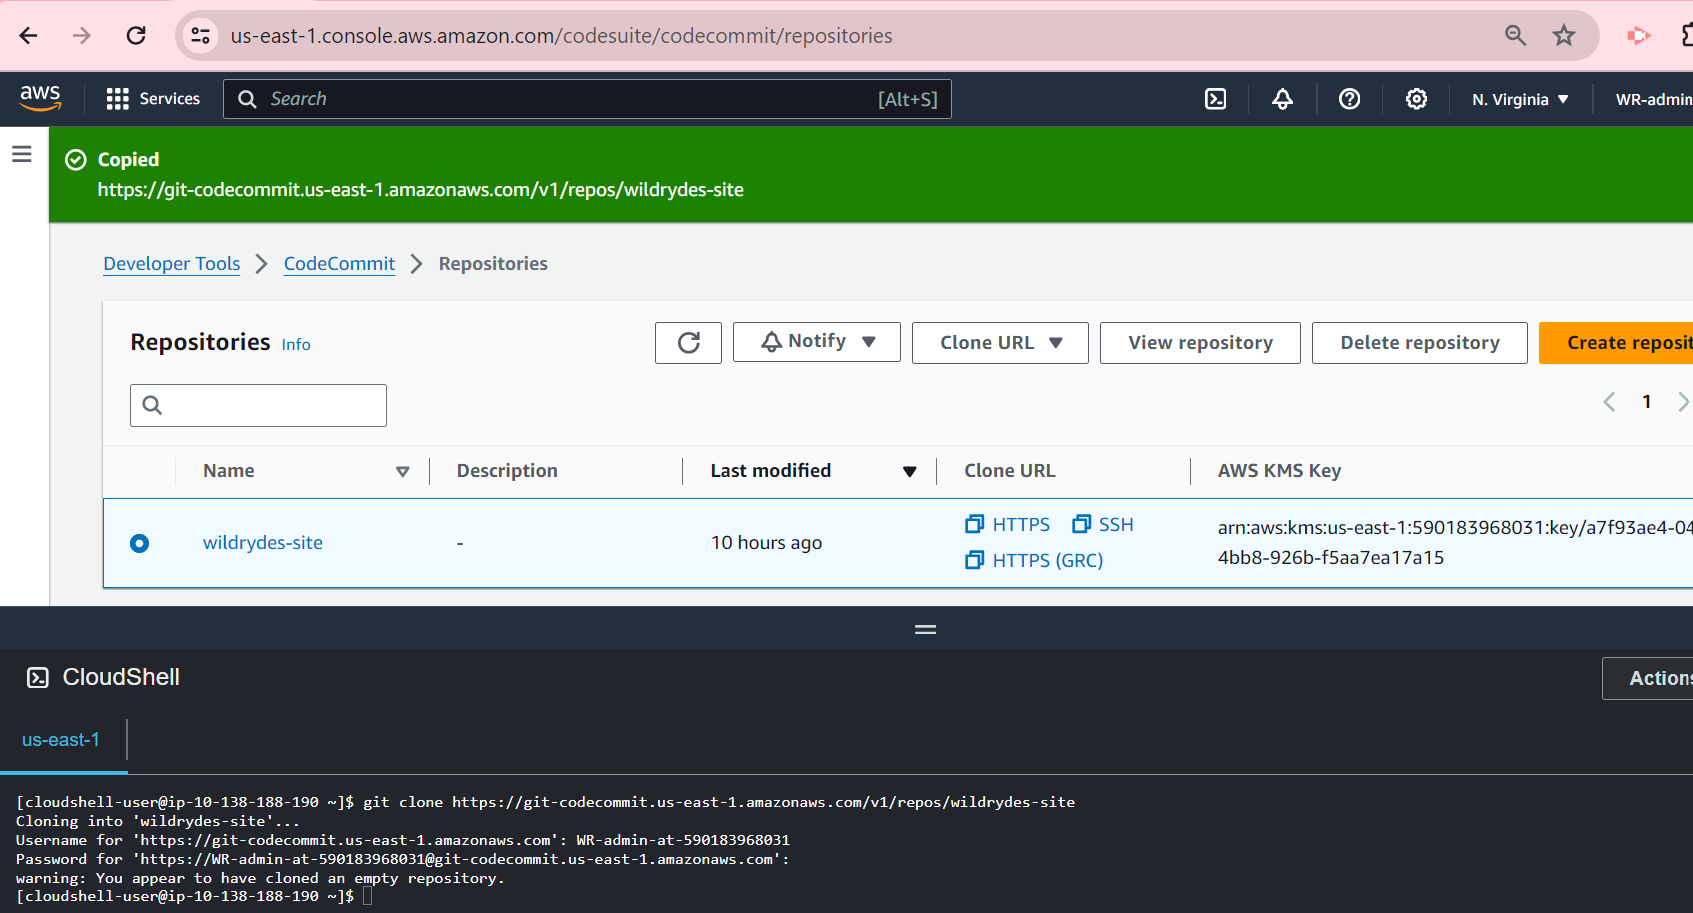
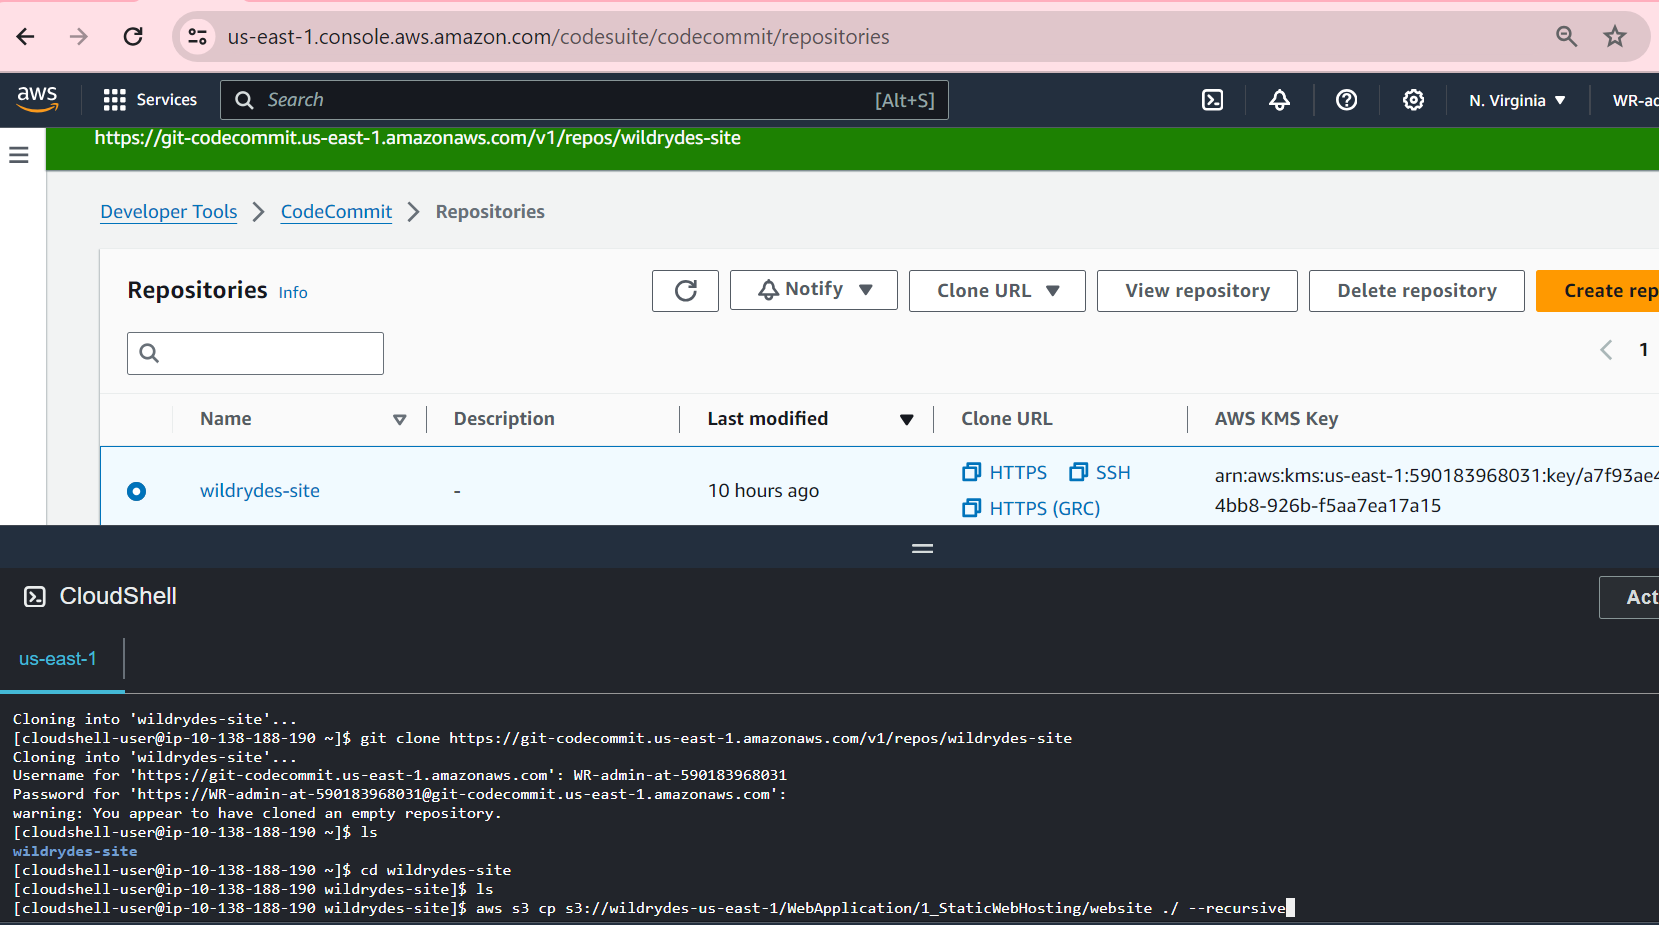
updated readme file

diff --git a/01.Ride-Hailing-Webapp-CD-Project/readme.md b/01.Ride-Hailing-Webapp-CD-Project/readme.md
@@ -41,8 +41,7 @@ We use AWS CodeCommit to:
   - CodeCommit>Repositories>Create repository> select repo you earlier created>Clone URL>Clone HTTPS>open cloud shell at the top> then type: git clone the url> Then enter the user name & password generated earlier
 ![Clone empty repo for source code](./images/clone-repo2.png)
 .
-  - Copy the project code from the S3 bucket and commit it to the new repo. In cloud shell cd into the empty repo folder and copy source code from S3 to this folder.i.e.
-cd wildrydes-site > aws s3 cp s3:// (ensure to change the region to your region) then add the files to the git repository, when prompted for email and user name use the details of the IAM user not the details for HTTPS, Commit and push> followed by the HTTPS credentials
+  - Copy the project code from the S3 bucket and commit it to the new repo. AWS locked the application files so use the following to clone the app files instead:  aws s3 cp s3://ttt-wildrydes/wildrydes-site ./ --recursive. Next, add the files to the git repository, when prompted for email and user name use the details of the IAM user not the details for HTTPS, Commit and push> followed by the HTTPS credentials
 ![Clone source code from S3 bucket](./images/clone-repo3.png)
 ![Clone source code from S3 bucket](./images/clone-repo4.png)
 ![Clone source code from S3 bucket](./images/clone-repo5.png)
